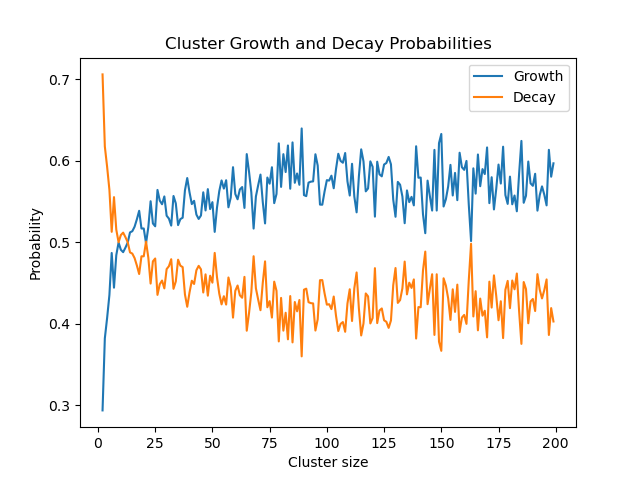
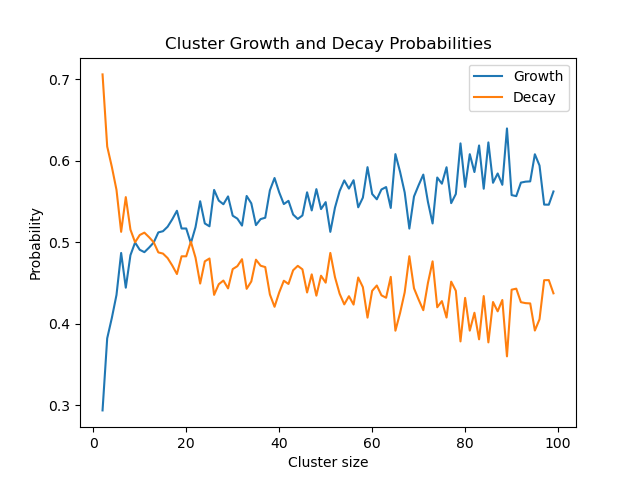
Trying to improve parallelization

diff --git a/analyze_rates.py b/analyze_rates.py
@@ -1,6 +1,6 @@
 from copy import copy
 from matplotlib import pyplot as plt
-from multiprocessing import Pool, cpu_count
+from multiprocessing import Pool, cpu_count, set_start_method, get_context
 from utils import load_automaton_data
 
 
@@ -38,6 +38,8 @@ def get_cluster_dynamics(growth_sizes, decay_sizes, size):
 
 def analyze_rates(model_name, simulation_indices, plot_name='rates'):
     num_cpus = cpu_count()
+    set_start_method("spawn")
+
     growth_sizes = []
     decay_sizes = []
 
@@ -68,7 +70,7 @@ def analyze_rates(model_name, simulation_indices, plot_name='rates'):
 
     print("Obtaining cluster dynamics...")
     sizes = list(range(2, 100))
-    with Pool(num_cpus) as p:
+    with get_context("spawn").Pool(num_cpus) as p:
         cluster_data = p.starmap(get_cluster_dynamics, [(copy(growth_sizes), copy(decay_sizes), size) for size in sizes])
 
     print("Stringing together probabilities")
@@ -127,4 +129,4 @@ def analyze_rates(model_name, simulation_indices, plot_name='rates'):
 
 
 if __name__ == '__main__':
-    analyze_rates("tricritical", range(6))
+    analyze_rates("tricritical", range(48))
